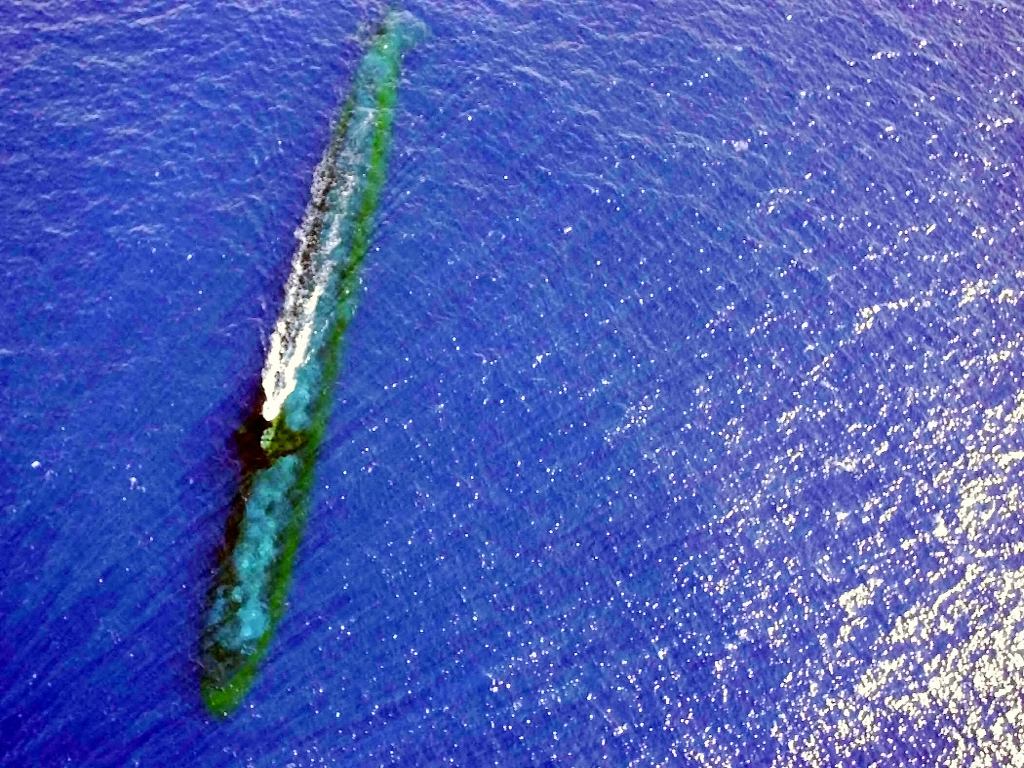
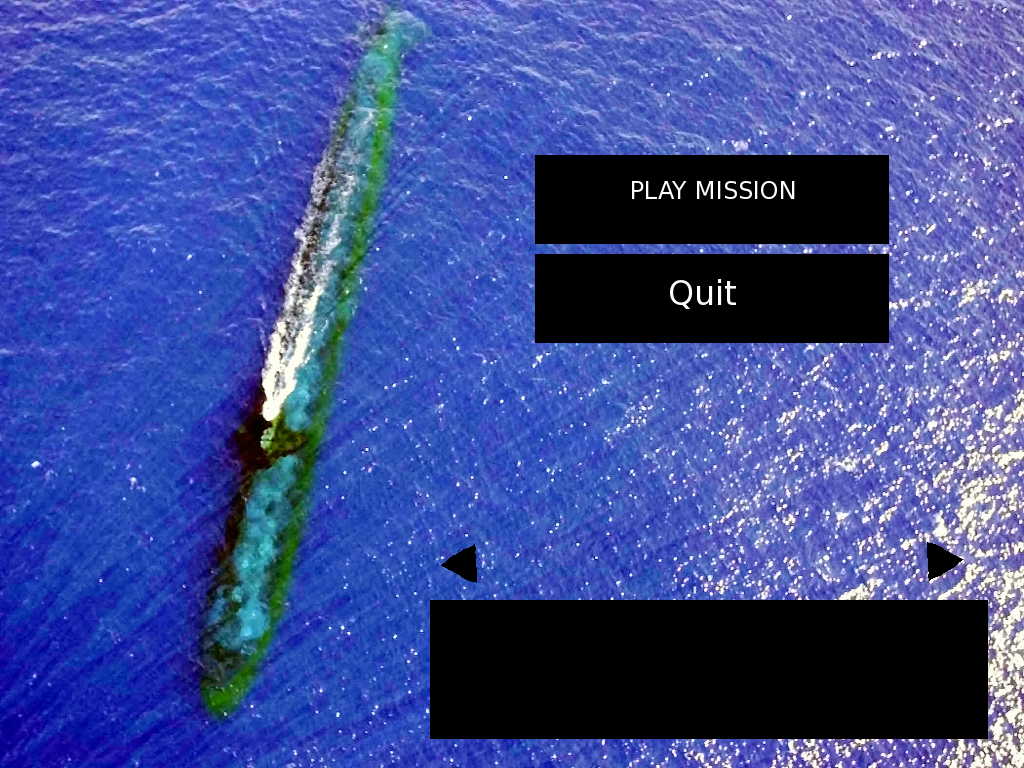
Added new main menu and interactive buttons. Finding data files is now more effecient.

diff --git a/src/menu.cpp b/src/menu.cpp
@@ -1,7 +1,190 @@
 #include <SDL.h>
+#include "files.h"
 #include "menu.h"
 #include "draw.h"
 
 
+SDL_Surface *menu_screen;
 
+int Main_Menu(int *mission_number, SDL_Surface *screen)
+{
+   SDL_Rect dest;
+   int command = 0;
+   int selected_button = BUTTON_PLAY;
+   int action;
+   Uint32 menu_colour = SDL_MapRGB(screen->format, 0, 200,0);
+   menu_screen = screen;
+
+   dest.x = 400; dest.y = 0; dest.w = 624; dest.h = 768;
+   while (! command)
+   {
+       Draw_Main_Menu(selected_button, menu_colour);
+       Display_Mission(*mission_number);
+       SDL_UpdateRects(menu_screen, 1, &dest);
+       action = Menu_Input();
+       if (action == BUTTON_ACTIVATE)
+          action = selected_button;
+       switch (action)
+       {
+          case BUTTON_PLAY: command = ACTION_MISSION; break;
+          case BUTTON_QUIT: command = ACTION_QUIT; break;
+          case BUTTON_PREV_MISSION:
+                 selected_button = BUTTON_PREV_MISSION;
+                 *mission_number = New_Mission(MISSION_PREVIOUS, *mission_number);
+                 Display_Mission(*mission_number);
+                 break;
+          case BUTTON_NEXT_MISSION:
+                 selected_button = BUTTON_NEXT_MISSION;
+                 *mission_number = New_Mission(MISSION_NEXT, *mission_number);
+                 Display_Mission(*mission_number);
+                 break;
+          case BUTTON_MOVE_UP:
+                 selected_button--;
+                 if (selected_button < BUTTON_PLAY)
+                    selected_button = BUTTON_NEXT_MISSION;
+                 break;
+          case BUTTON_MOVE_DOWN:
+                 selected_button++;
+                 if (selected_button > BUTTON_NEXT_MISSION)
+                     selected_button = BUTTON_PLAY;
+                 break;
+                 
+       }
+       SDL_Delay(100);
+   }
+
+   #ifdef DEBUG
+   printf("Returning menu command: %d\n", command);
+   #endif
+   return command;
+}
+
+
+
+int New_Mission(int next_prev, int old_mission)
+{
+   FILE *mission_file;
+   char *mission_path;
+   char mission_filename[256];
+   int new_mission;
+
+   if (next_prev == MISSION_PREVIOUS)
+   {
+      new_mission = old_mission - 1;
+      if (new_mission < 0)
+        new_mission = 0;
+   }
+   else
+   {
+      new_mission = old_mission + 1;
+   }
+
+   snprintf(mission_filename, 256, "data/mission%d.dat", new_mission);
+   mission_path = Find_Data_File(mission_filename);
+   mission_file = fopen(mission_path, "r");
+   if ( (mission_path) && (mission_path != mission_filename) )
+      free(mission_path);
+
+   // found mission file, return the new number
+   if (mission_file)
+   {
+       fclose(mission_file);
+       return new_mission;
+   }
+
+   // we do not have a matching mission file, return the last good one
+   return old_mission;
+}
+
+
+
+int Display_Mission(int mission_number)
+{
+   return TRUE;
+}
+
+
+
+int Draw_Main_Menu(int selected, Uint32 menu_colour)
+{
+   Uint32 menu_background = SDL_MapRGB(menu_screen->format, 0, 0, 0);
+   // wipe everything first
+   DrawRectangle(menu_screen, 540, 160, 885, 235, menu_background);
+   DrawRectangle(menu_screen, 540, 260, 885, 335, menu_background);
+   FillCircle(menu_screen, 465, 565, 5, menu_background);
+   FillCircle(menu_screen, 940, 565, 5, menu_background);
+
+   switch (selected)
+   {
+      case BUTTON_PLAY:
+           DrawRectangle(menu_screen, 540, 160, 885, 235, menu_colour);
+           break;
+      case BUTTON_QUIT:
+           DrawRectangle(menu_screen, 540, 260, 885, 335, menu_colour);
+           break;
+      case BUTTON_PREV_MISSION:
+           FillCircle(menu_screen, 465, 565, 5, menu_colour);
+           break;
+      case BUTTON_NEXT_MISSION:
+           FillCircle(menu_screen, 940, 565, 5, menu_colour);
+           break;
+
+   }
+   return TRUE;
+}
+
+
+
+int Menu_Input()
+{
+   int action = 0;
+   SDL_Event event;
+   int mousex, mousey;
+
+   #ifdef DEBUG
+   printf("About to check for event.\n");
+   #endif
+   while ( SDL_PollEvent(&event) )
+   {
+      #ifdef DEBUG
+      printf("Got event.\n");
+      #endif
+      switch (event.type)
+      {
+          case SDL_MOUSEBUTTONDOWN:
+                mousex = event.button.x;
+                mousey = event.button.y;
+                if ( (mousex > 540) && (mousex < 885) &&
+                     (mousey > 160) && (mousey < 235) )
+                     action = BUTTON_PLAY;
+                else if ( (mousex > 540) && (mousex < 885) &&
+                          (mousey > 260) && (mousey < 335) )
+                     action = ACTION_QUIT;
+                else if ( (mousex > 460) && (mousex < 475) &&
+                          (mousey > 560) && (mousey < 570) )
+                     action = BUTTON_PREV_MISSION;
+                else if ( (mousex > 930) && (mousex < 850) &&
+                          (mousey > 560) && (mousey < 570) )
+                     action = BUTTON_NEXT_MISSION;
+
+          break;   // end of mouse stuff
+          case SDL_KEYDOWN:
+             if (event.key.keysym.sym == SDLK_UP)
+                  action = BUTTON_MOVE_UP;
+             else if (event.key.keysym.sym == SDLK_DOWN)
+                  action = BUTTON_MOVE_DOWN;
+             else if (event.key.keysym.sym == SDLK_ESCAPE)
+                  action = ACTION_QUIT;
+             else if ( (event.key.keysym.sym == SDLK_SPACE) ||
+                       (event.key.keysym.sym == SDLK_RETURN) )
+                  action = BUTTON_ACTIVATE;
+             break;
+      }   // end of switch
+   }      // end of which event
+   
+   #ifdef DEBUG
+   printf("Returning action: %d\n", action);
+   #endif
+   return action;
+}
 

diff --git a/src/menu.h b/src/menu.h
@@ -1,24 +1,38 @@
 #ifndef MENU_HEADER_FILE__
 #define MENU_HEADER_FILE__
 
-#define ACTION QUIT 1
+#define ACTION_QUIT 1
 #define ACTION_MISSION 2
 
 #define BUTTON_PLAY 1
 #define BUTTON_QUIT 2
 #define BUTTON_PREV_MISSION 3
 #define BUTTON_NEXT_MISSION 4
+#define BUTTON_MOVE_UP 5
+#define BUTTON_MOVE_DOWN 6
+#define BUTTON_ACTIVATE 7
+
+#define MISSION_PREVIOUS 1
+#define MISSION_NEXT 2
+
+#ifndef TRUE
+#define TRUE 1
+#endif
+#ifndef FALSE
+#define FALSE 0
+#endif
 
 
 // Returns one of the above actions
-int Main_Menu(int *mission_number);
+int Main_Menu(int *mission_number, SDL_Surface *screen);
 
 
 
 // This function selects the next/previous mission
 // It checks to make sure the mission files exist.
-// The new mission number is returned on success and -1 on failure
-int New_Mission(int next_prev);
+// The new mission number is returned on success and 
+// the original mission number on failure.
+int New_Mission(int next_prev, int old_mission);
 
 
 // This function displays the description of a mission on the
@@ -30,7 +44,13 @@ int Display_Mission(int mission_number);
 // cursor on the screen
 // The "selected" parameter tells us which button is currently
 // highlighted
-int Draw_Main_Menu(int selected);
+int Draw_Main_Menu(int selected, Uint32 menu_colour);
+
+// This function checks to see if we have any keyboard or
+// mouse input. We return one of the "button" values
+// defined above
+int Menu_Input();
+
 
 #endif
 

diff --git a/src/files.cpp b/src/files.cpp
@@ -4,6 +4,7 @@
 #include "SDL/SDL_image.h"
 #include "files.h"
 
+static char *data_dir = NULL;
 
 // Find a file's full path based on the name of a file
 char *Find_Data_File(char *filename)
@@ -15,11 +16,19 @@ char *Find_Data_File(char *filename)
    if (! location)
       return filename;
 
+   // maybe we already know the directory and don't have to search
+   if (data_dir) 
+   {
+      sprintf(location, "%s/%s", data_dir, filename);
+      return location;
+   }
+
    sprintf(location, "/usr/local/share/games/openssn/%s", filename);
    my_file = fopen(location, "r");
    if (my_file)
    {
        fclose(my_file);
+       data_dir = "/usr/local/share/games/openssn";
        return location;
    }
 
@@ -28,9 +37,11 @@ char *Find_Data_File(char *filename)
    if (my_file)
    {
       fclose(my_file);
+      data_dir = "/usr/share/games/openssn";
       return location;
    }
-   
+
+   data_dir = ".";  
    return filename;
 }
 

diff --git a/src/draw.cpp b/src/draw.cpp
@@ -85,11 +85,25 @@ void DrawArc(SDL_Surface *screen, int X1, int Y1, int Radius, int Theta1, int Th
 void DrawCircle(SDL_Surface *screen, int X1, int Y1, int Radius, Uint32 Color){
 
 //Draw a circle  at (X1,Y1) of a given radius using specified Color.
+/*
         int xc, yc, radius;
         xc = X1;
         yc = Y1;
         radius = Radius;
-        DrawArc(screen, xc, yc, radius, 0, 360, Color);
+*/
+        DrawArc(screen, X1, Y1, Radius, 0, 360, Color);
+}
+
+
+void FillCircle(SDL_Surface *screen, int X1, int Y1, int Radius, Uint32 Color)
+{
+   int my_radius;
+   my_radius = Radius;
+   while (my_radius > 1)
+   {
+       DrawCircle(screen, X1, Y1, my_radius, Color);
+       my_radius--;
+   }
 }
 
 void DrawDiamond(SDL_Surface *screen, int X1, int Y1, int Size, char Direction, Uint32 Color){

diff --git a/src/draw.h b/src/draw.h
@@ -8,13 +8,15 @@
 #include <SDL/SDL_thread.h>
 
 
-inline void DrawPixel(SDL_Surface *screen, int x, int y, Uint32 color);
+void DrawPixel(SDL_Surface *screen, int x, int y, Uint32 color);
 
 void DrawLine(SDL_Surface *screen, int X1, int Y1, int X2, int Y2, Uint32 Color);
 
 void DrawArc(SDL_Surface *screen, int X1, int Y1, int Radius, int Theta1, int Theta2, Uint32 Color);
 
 void DrawCircle(SDL_Surface *screen, int X1, int Y1, int Radius, Uint32 Color);
+
+void FillCircle(SDL_Surface *screen, int X1, int Y1, int Radius, Uint32 Color);
 
 void DrawDiamond(SDL_Surface *screen, int X1, int Y1, int Size, char Direction, Uint32 Color);
 

diff --git a/src/main.cpp b/src/main.cpp
@@ -2879,6 +2879,10 @@ int main(int argc, char **argv){
 	}
         */
 	//LoadWidgets(); //load up the buttons
+        LoadScreen(9);
+        // main menu stuff goes here
+        Main_Menu(&mission_number, screen);
+
 	SDL_Rect rectangle;
 	rectangle.x = 0;
 	rectangle.y = 0;

diff --git a/src/files.h b/src/files.h
@@ -3,6 +3,7 @@
 #include "SDL/SDL.h"
 #include "SDL/SDL_image.h"
 
+
 // Find the full path of a file based on its name.
 // The return value should be freed UNLESS the return
 // value is equal to the filename passed in.
